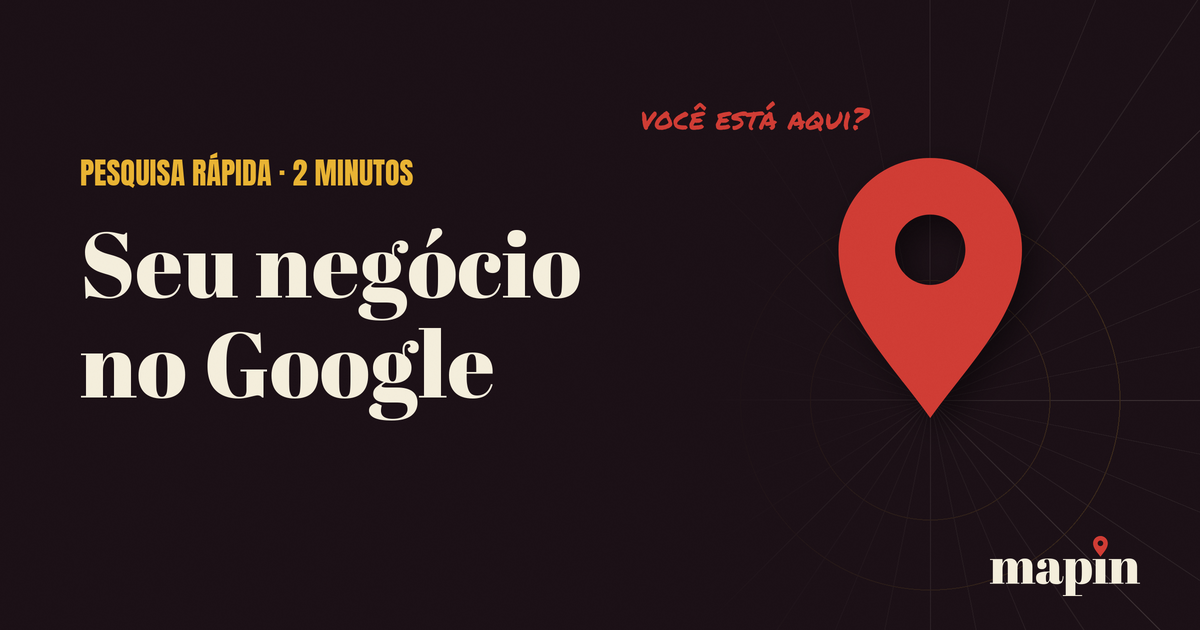
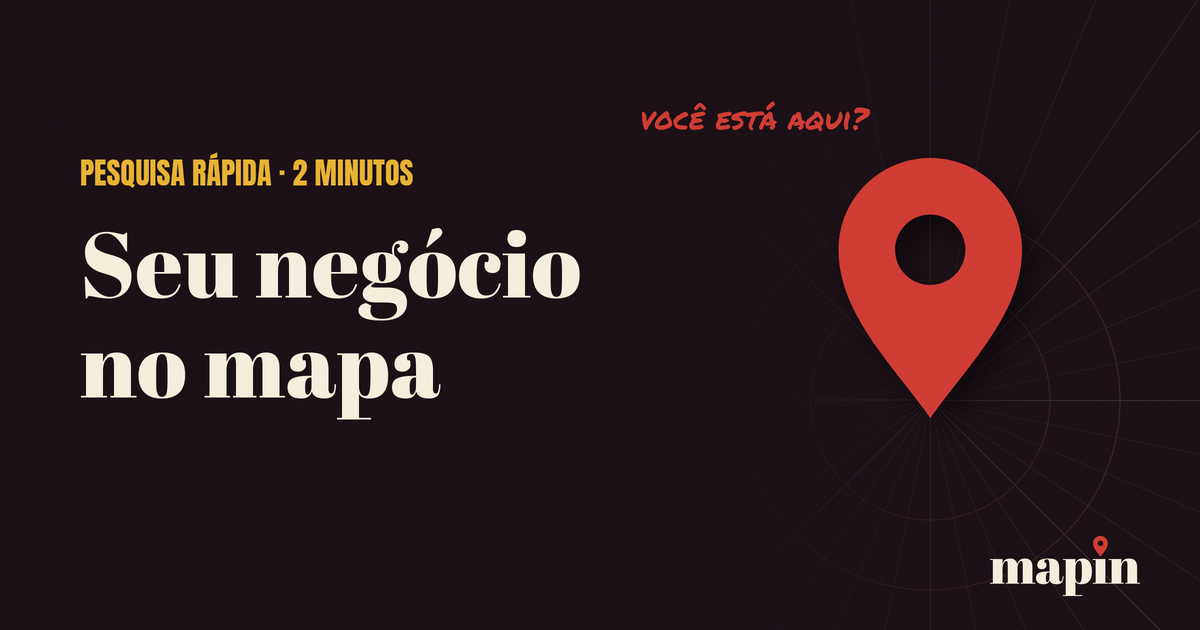
Respostas pelo Netlify Forms; título Seu negócio no mapa

Changed region(s): [[0.1542, 0.5127, 0.4317, 0.6937]]

diff --git a/index.html b/index.html
@@ -3,9 +3,9 @@
 <head>
 <meta charset="utf-8">
 <meta name="viewport" content="width=device-width,initial-scale=1,viewport-fit=cover">
-<title>Seu negócio no Google · Mapin</title>
+<title>Seu negócio no mapa · Pesquisa Mapin</title>
 <meta name="description" content="Pesquisa rápida da Mapin: 2 minutos para contar como está o seu negócio no Google.">
-<meta property="og:title" content="Seu negócio no Google: você está aqui?">
+<meta property="og:title" content="Seu negócio no mapa: você está aqui?">
 <meta property="og:description" content="Pesquisa rápida da Mapin. São 2 minutos, e no fim você pode pedir uma análise grátis do seu perfil.">
 <meta property="og:image" content="og.png">
 <meta property="og:type" content="website">
@@ -88,6 +88,9 @@ footer b{font-family:var(--f-cartaz);font-weight:400;letter-spacing:.08em}
 </style>
 </head>
 <body>
+<form name="pesquisa" method="POST" data-netlify="true" netlify-honeypot="campo-isca" hidden>
+  <input name="campo-isca"><input name="negocio"><input name="aparece_no_mapa"><input name="ultima_vez_que_olhou"><input name="como_esta_o_perfil"><input name="o_que_impede"><input name="formato_preferido"><input name="tempo_por_semana"><textarea name="o_que_mudaria"></textarea><input name="quer_analise"><input name="whatsapp">
+</form>
 <div class="fundo" aria-hidden="true">
   <svg viewBox="-500 -500 1000 1000" id="rumos"></svg>
 </div>
@@ -106,18 +109,18 @@ footer b{font-family:var(--f-cartaz);font-weight:400;letter-spacing:.08em}
 <script>
 (function(){
   // Depósito das respostas: o Google Forms "Pesquisa Mapin · Seu negócio no Google"
-  var FORM = "https://docs.google.com/forms/d/e/1FAIpQLSfbDTGZ4YDLhhI_W3F4WeAApP-DZXx_rc4bs9NEDG_Mr1tP6A/formResponse";
+  // As respostas ficam no próprio Netlify (Forms), no mesmo endereço da página.
   var Q = [
-    {id:1380366237, tipo:"texto", t:"Que tipo de negócio você tem?", ph:"Ex.: ótica, salão, peixaria, clínica…", obrig:true},
-    {id:365408307, tipo:"um", t:"Seu negócio aparece no Google, no mapa?", op:["Sim","Não","Não sei"]},
-    {id:2069553402, tipo:"um", t:"Quando foi a última vez que você olhou o seu perfil no Google?", op:["Nesta semana","Neste mês","Faz meses","Nunca olhei"]},
-    {id:552975754, tipo:"varios", t:"Como está o seu perfil hoje?", dica:"Pode marcar mais de uma.", op:["Poucas fotos ou fotos antigas","Horário ou telefone errado","Avaliações sem resposta","Poucas avaliações","Está tudo certo"], outro:true},
-    {id:1846051349, tipo:"um", t:"O que mais te impede de cuidar do seu perfil?", op:["Falta de tempo","Não sei mexer","Tenho medo de fazer errado","Acho que não faz diferença"], outro:true},
-    {id:1692825374, tipo:"um", t:"Se tivesse um passo a passo para você mesmo arrumar, como você preferia?", op:["Vídeos curtos no celular","Uma lista para ir marcando","Alguém me explicando por áudio","Prefiro pagar alguém para fazer"], outro:true},
-    {id:1747540809, tipo:"um", t:"Quanto tempo por semana você teria para isso?", op:["Até 15 minutos","30 minutos","1 hora","Não tenho tempo"]},
-    {id:1372833848, tipo:"longo", t:"Se mais clientes te achassem no Google, o que isso mudaria para você?", dica:"Ex.: vender mais, não depender só de indicação, lotar a agenda.", ph:"Escreva do seu jeito…", pular:true},
-    {id:2043095249, tipo:"um", t:"Quer receber grátis uma análise do seu perfil no Google?", op:["Sim, quero","Não, obrigado(a)"]},
-    {id:1420288845, tipo:"zap", t:"Qual é o seu WhatsApp?", dica:"Com DDD. Só será usado para te enviar a análise.", ph:"(69) 9 0000-0000", se:function(r){return r[2043095249]==="Sim, quero"}}
+    {id:1380366237, nome:"negocio", tipo:"texto", t:"Que tipo de negócio você tem?", ph:"Ex.: ótica, salão, peixaria, clínica…", obrig:true},
+    {id:365408307, nome:"aparece_no_mapa", tipo:"um", t:"Seu negócio aparece no Google, no mapa?", op:["Sim","Não","Não sei"]},
+    {id:2069553402, nome:"ultima_vez_que_olhou", tipo:"um", t:"Quando foi a última vez que você olhou o seu perfil no Google?", op:["Nesta semana","Neste mês","Faz meses","Nunca olhei"]},
+    {id:552975754, nome:"como_esta_o_perfil", tipo:"varios", t:"Como está o seu perfil hoje?", dica:"Pode marcar mais de uma.", op:["Poucas fotos ou fotos antigas","Horário ou telefone errado","Avaliações sem resposta","Poucas avaliações","Está tudo certo"], outro:true},
+    {id:1846051349, nome:"o_que_impede", tipo:"um", t:"O que mais te impede de cuidar do seu perfil?", op:["Falta de tempo","Não sei mexer","Tenho medo de fazer errado","Acho que não faz diferença"], outro:true},
+    {id:1692825374, nome:"formato_preferido", tipo:"um", t:"Se tivesse um passo a passo para você mesmo arrumar, como você preferia?", op:["Vídeos curtos no celular","Uma lista para ir marcando","Alguém me explicando por áudio","Prefiro pagar alguém para fazer"], outro:true},
+    {id:1747540809, nome:"tempo_por_semana", tipo:"um", t:"Quanto tempo por semana você teria para isso?", op:["Até 15 minutos","30 minutos","1 hora","Não tenho tempo"]},
+    {id:1372833848, nome:"o_que_mudaria", tipo:"longo", t:"Se mais clientes te achassem no Google, o que isso mudaria para você?", dica:"Ex.: vender mais, não depender só de indicação, lotar a agenda.", ph:"Escreva do seu jeito…", pular:true},
+    {id:2043095249, nome:"quer_analise", tipo:"um", t:"Quer receber grátis uma análise do seu perfil no Google?", op:["Sim, quero","Não, obrigado(a)"]},
+    {id:1420288845, nome:"whatsapp", tipo:"zap", t:"Qual é o seu WhatsApp?", dica:"Com DDD. Só será usado para te enviar a análise.", ph:"(69) 9 0000-0000", se:function(r){return r[2043095249]==="Sim, quero"}}
   ];
   var OUTRO = "Outro";
   var resp = {}, outroTxt = {}, passo = -1;
@@ -156,7 +159,7 @@ footer b{font-family:var(--f-cartaz);font-weight:400;letter-spacing:.08em}
     var t = el("section",{class:"tela"});
     t.innerHTML = '<svg class="intro-pin cai" viewBox="0 0 240 340" aria-hidden="true"><path d="M120 340C72 272 0 204 0 120A120 120 0 0 1 240 120C240 204 168 272 120 340ZM166 120A46 46 0 1 0 74 120A46 46 0 1 0 166 120Z" fill="#D03D35" fill-rule="evenodd"/></svg>'+
       '<div class="chapeu">Pesquisa rápida · 2 minutos</div>'+
-      '<h1>Seu negócio no Google</h1>'+
+      '<h1>Seu negócio no mapa</h1>'+
       '<span class="recado">você está aqui?</span>'+
       '<p>São 9 perguntinhas, quase todas de tocar e seguir. Estou montando um material para ajudar negócios a serem mais encontrados no Google, e a sua resposta faz toda a diferença.</p>'+
       '<p class="dica">— Nayara, da Mapin</p>';
@@ -220,16 +223,15 @@ footer b{font-family:var(--f-cartaz);font-weight:400;letter-spacing:.08em}
     palco.innerHTML = ""; rota.hidden = true;
     var t = el("section",{class:"tela"}, '<div class="chapeu">Enviando…</div><h2>Guardando as suas respostas no mapa</h2>');
     palco.appendChild(t);
-    var dados = new URLSearchParams();
+    var dados = new URLSearchParams(); dados.append("form-name","pesquisa");
     Q.forEach(function(q){
       if (q.se && !q.se(resp)) return;
       var v = resp[q.id]; if (v==null || v==="" || (Array.isArray(v)&&!v.length)) return;
-      (Array.isArray(v)?v:[v]).forEach(function(x){
-        if (x===OUTRO){ dados.append("entry."+q.id, "__other_option__"); dados.append("entry."+q.id+".other_option_response", (outroTxt[q.id]||"").trim()); }
-        else dados.append("entry."+q.id, String(x).trim());
-      });
+      var lista = (Array.isArray(v)?v:[v]).map(function(x){ return x===OUTRO ? "Outro: "+(outroTxt[q.id]||"").trim() : String(x).trim(); });
+      dados.append(q.nome, lista.join("; "));
     });
-    fetch(FORM, {method:"POST", mode:"no-cors", body:dados}).then(fim, falha);
+    fetch("/", {method:"POST", headers:{"Content-Type":"application/x-www-form-urlencoded"}, body:dados.toString()})
+      .then(function(r){ if(!r.ok) throw new Error(r.status); fim(); }, falha).catch(falha);
   }
   function fim(){
     var quer = resp[2043095249]==="Sim, quero";
